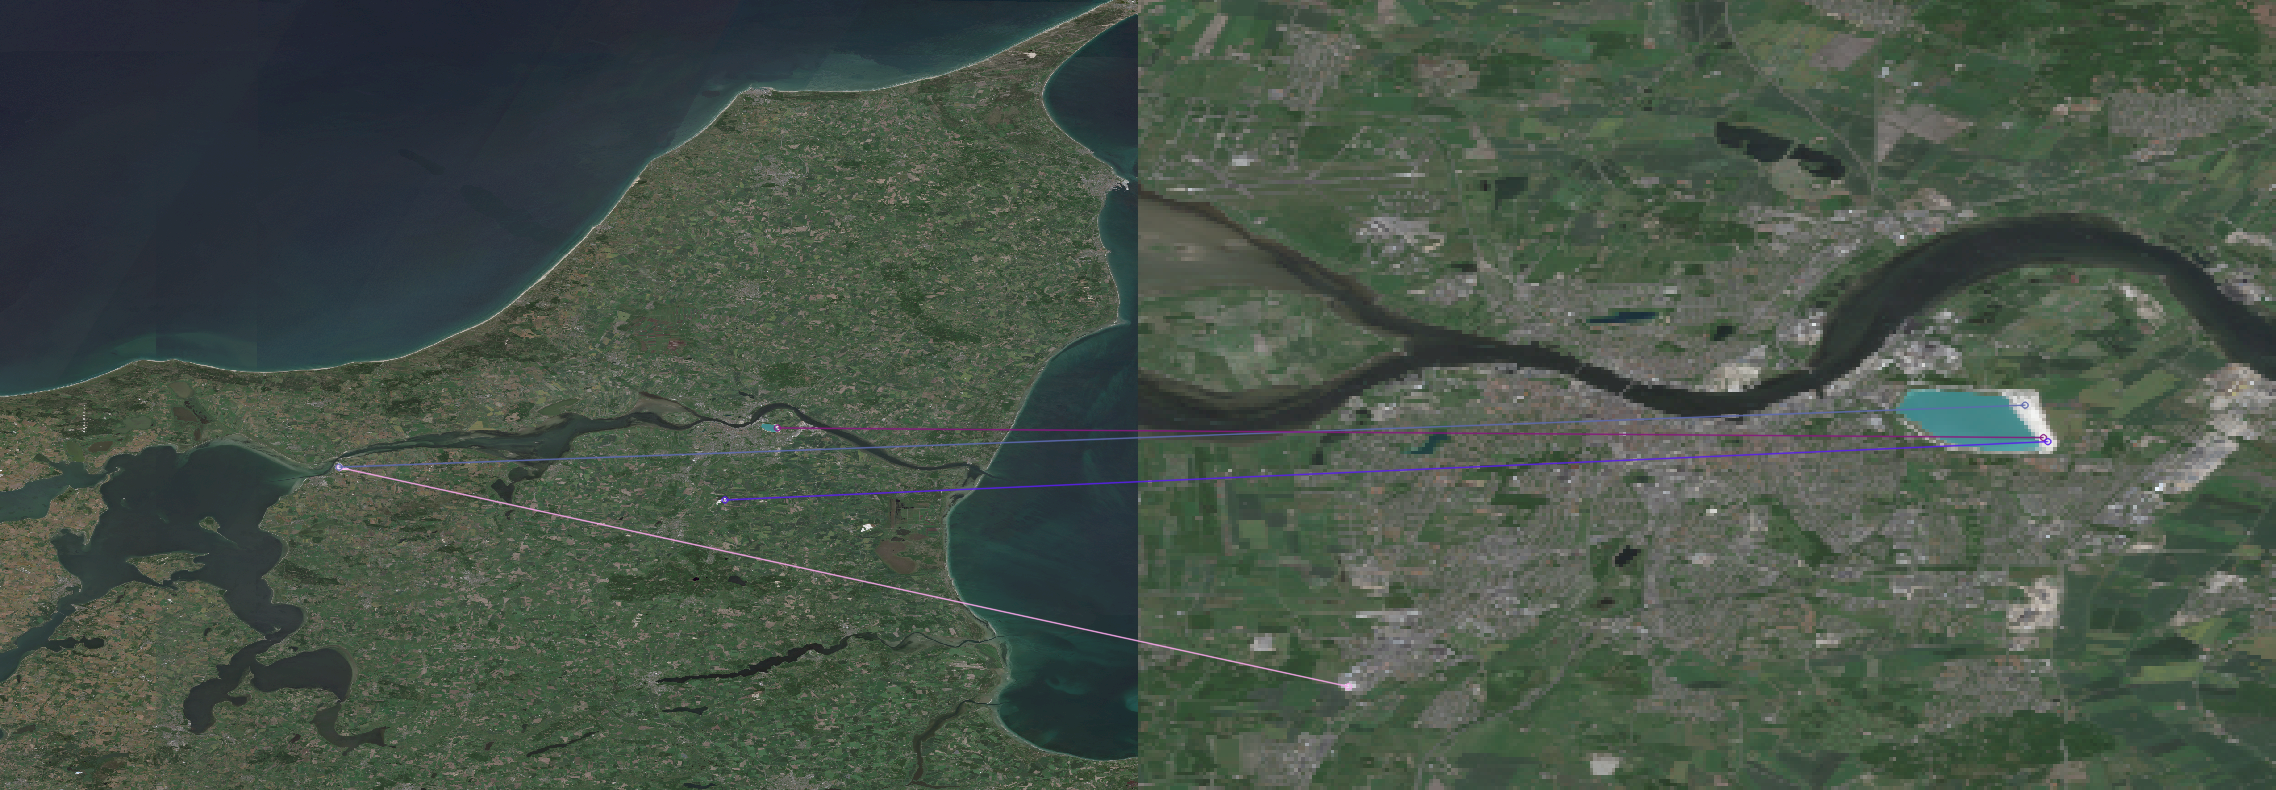
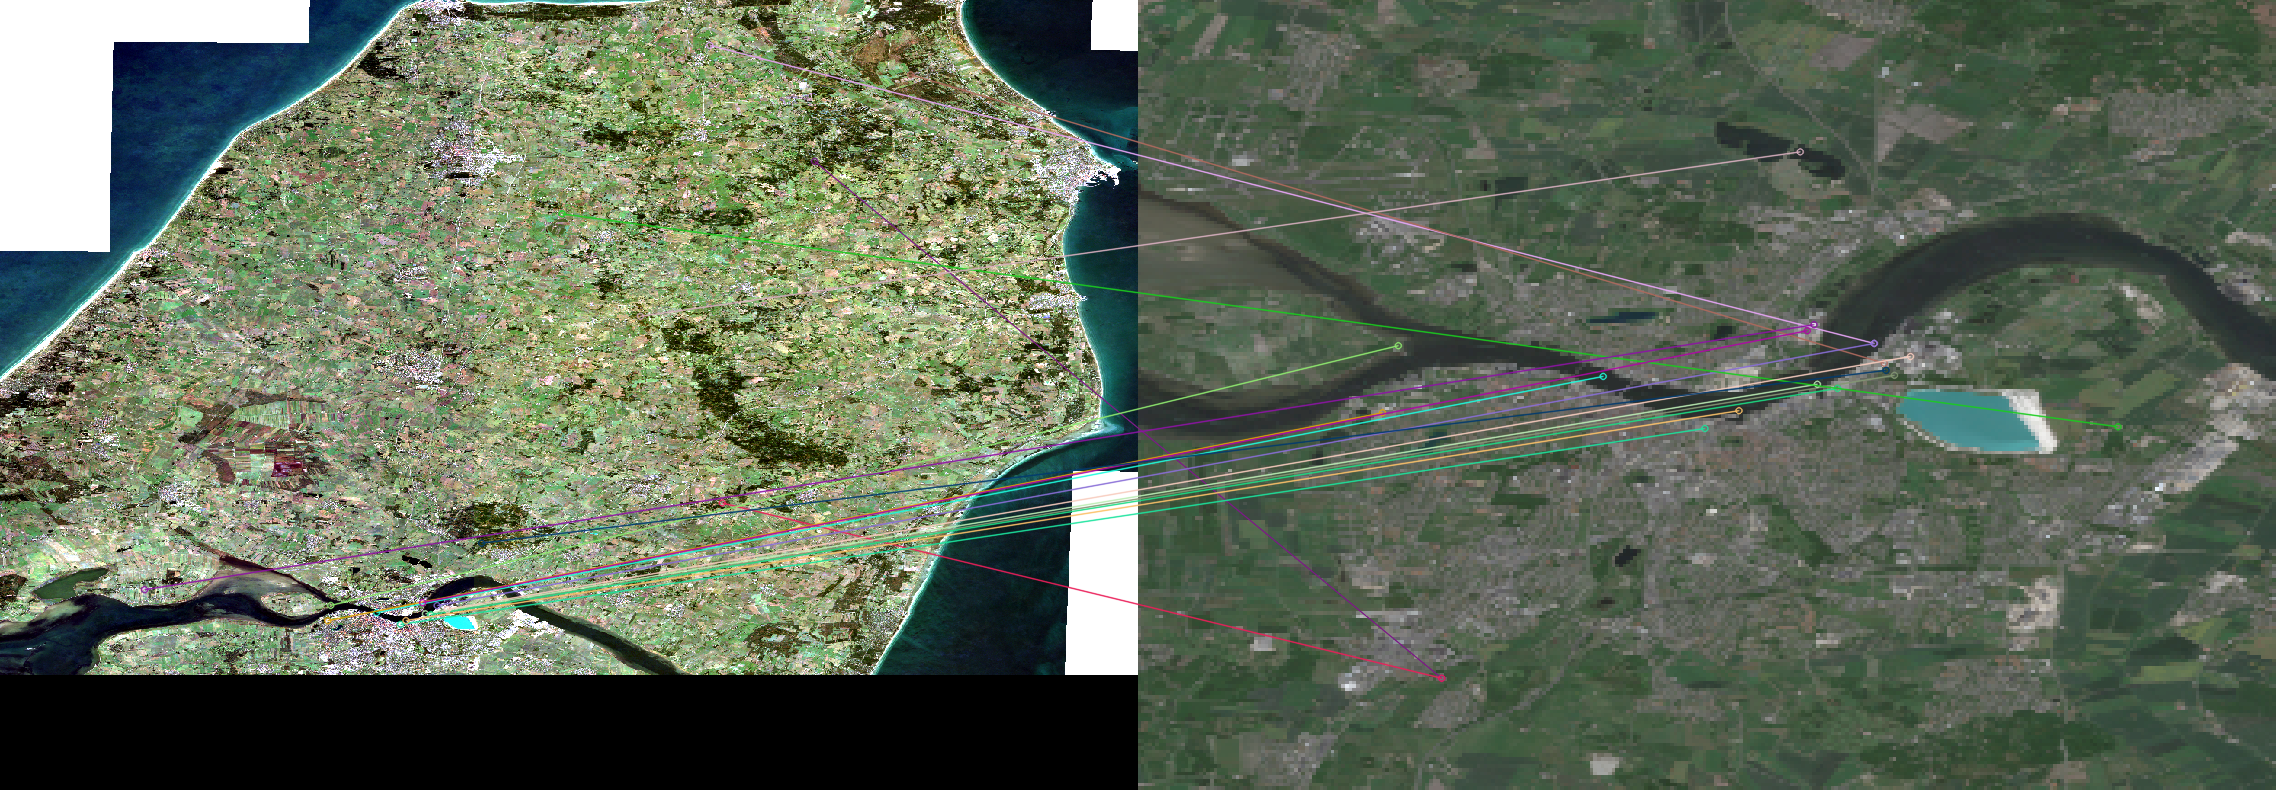
post processing matches

diff --git a/src/main.rs b/src/main.rs
@@ -13,7 +13,7 @@ use ndarray::{Array1, ArrayView1, ArrayView3};
 use opencv::{self as cv, prelude::*};
 fn main() -> Result<()> { 
     // Read image
-    let img = cv::imgcodecs::imread("./Data/9.png", cv::imgcodecs::IMREAD_COLOR)?;
+    let img = cv::imgcodecs::imread("./Data/20.png", cv::imgcodecs::IMREAD_COLOR)?;
     let img2 = cv::imgcodecs::imread("./Data/10.png", cv::imgcodecs::IMREAD_COLOR)?;
     // Use Orb
     let mut orba = <cv::features2d::ORB>::create(
@@ -36,7 +36,7 @@ fn main() -> Result<()> {
         4,
         4,
         opencv::features2d::KAZE_DiffusivityType::DIFF_PM_G2,
-        10,
+        -1,
     )?;
 
     let mut orb_keypoints = cv::core::Vector::default();
@@ -106,15 +106,32 @@ fn main() -> Result<()> {
 
     
 
-    let mut matches = opencv::types::VectorOfDMatch::new();
-    let mut bf_matcher = cv::features2d::BFMatcher::new(cv::core::NORM_L1, true)?;
-
-    let mut flann_matcher = cv::features2d::FlannBasedMatcher::new_def()?;
+    let mut matches= opencv::types::VectorOfVectorOfDMatch::new();
+    let mut bf_matcher = cv::features2d::BFMatcher::new(cv::core::NORM_HAMMING, false)?;
 
     // The matching algorithm
-	bf_matcher.train_match_def(&orb_desc, &orb_desc2, &mut matches).unwrap();
+	//bf_matcher.train_match_def(&orb_desc, &orb_desc2, &mut matches).unwrap();
 
-    println!("Matches: {:#?}", matches);
+    bf_matcher.knn_train_match_def(&orb_desc, &orb_desc2, &mut matches, 2).unwrap();
+
+    let mut good_matches = opencv::types::VectorOfDMatch::new();
+    let mut tracker = 0i32;
+
+    for i in &matches {
+        for m in &i {
+            for n in &i {
+                tracker += 1;
+                if m.distance < 0.7 * n.distance {
+                    good_matches.push(m);
+                    break
+                }
+            }
+        }
+    }
+
+    println!("{}", tracker);
+    println!("Matches: {}", &matches.len());
+    println!("Good Matches: {}", &good_matches.len());
 
     //let matches1to2 = opencv::core::Vector::new();
     let mut out_img = cv::core::Mat::default();
@@ -125,15 +142,17 @@ fn main() -> Result<()> {
         &orb_keypoints,
         &img2,
         &orb_keypoints2,
-        &matches,
+        &good_matches,
         &mut out_img,
         opencv::core::VecN::all(-1.0),
         opencv::core::VecN::all(-1.0),
         &matches_mask,
         cv::features2d::DrawMatchesFlags::NOT_DRAW_SINGLE_POINTS
      )?;
-   
 
+    cv::calib3d::find_homography_def(src_points, dst_points);
+
+    
 
     // Write image using OpenCV
     cv::imgcodecs::imwrite("./tmp.png", &dst_img, &cv::core::Vector::default())?;
